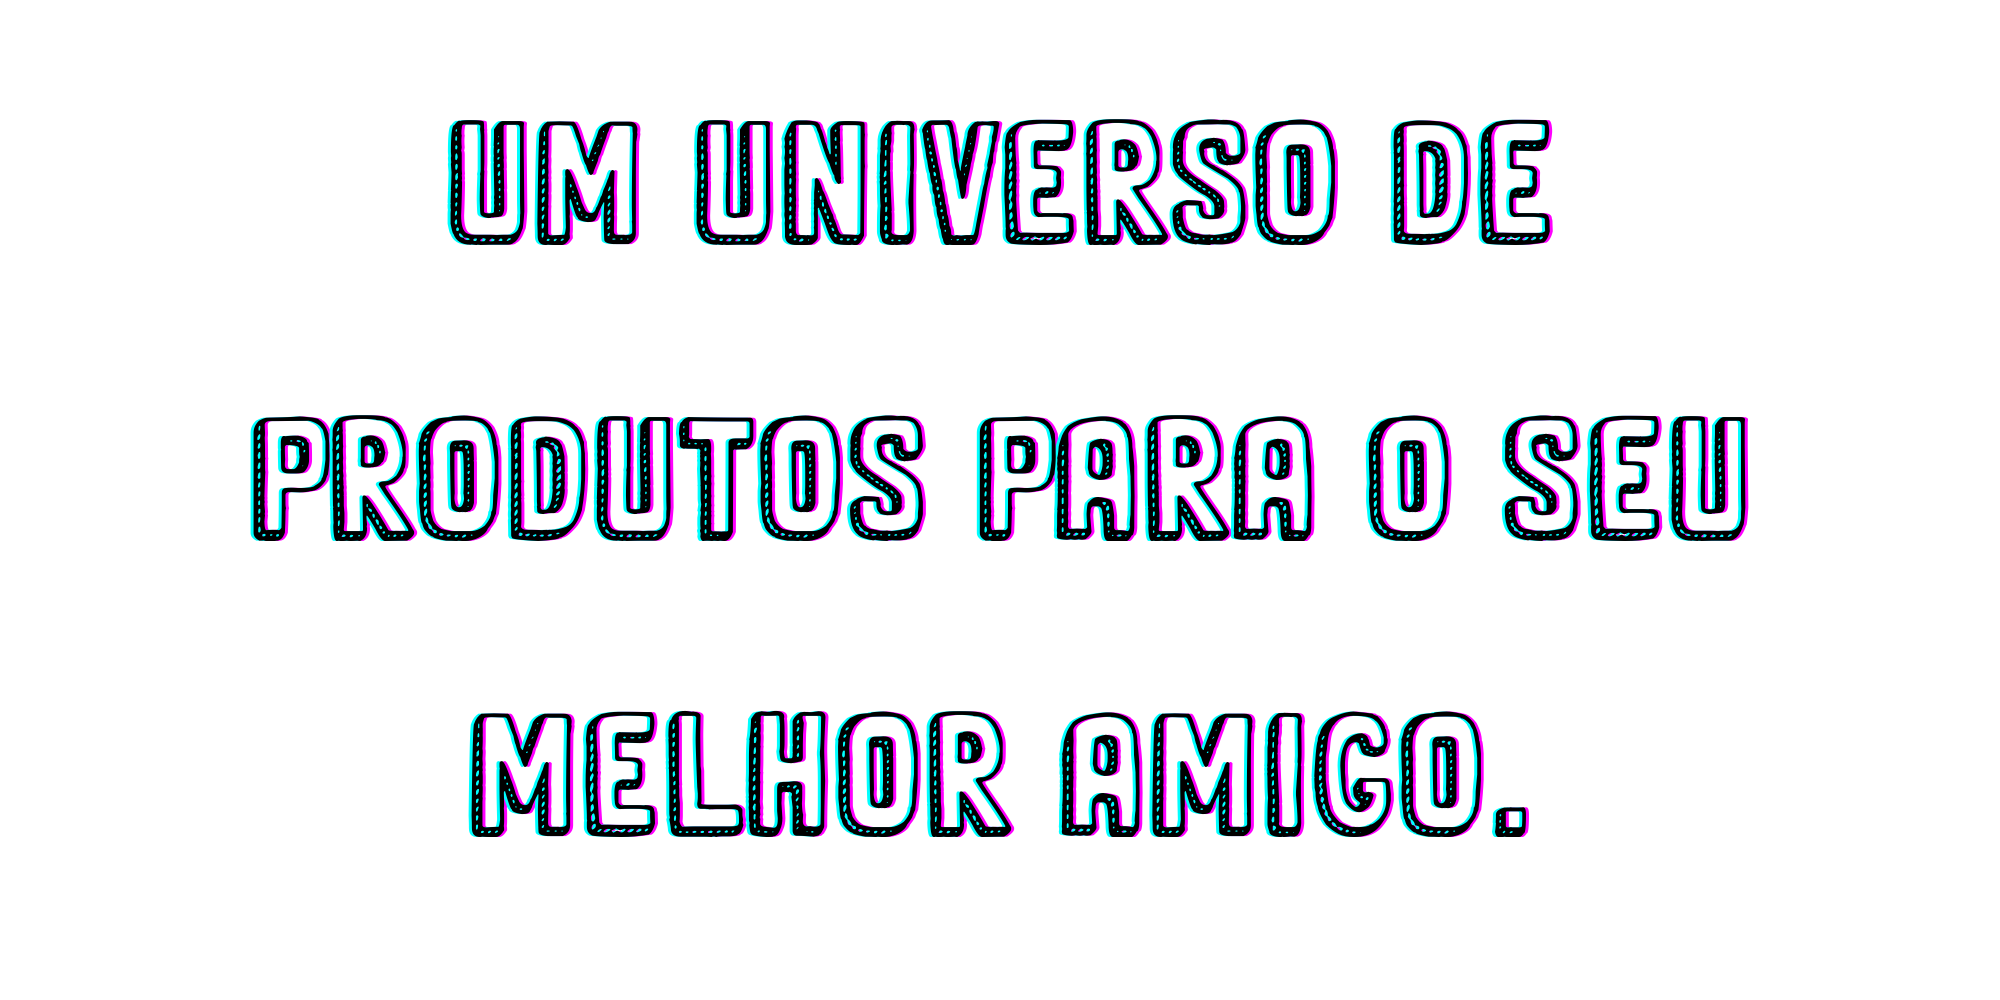
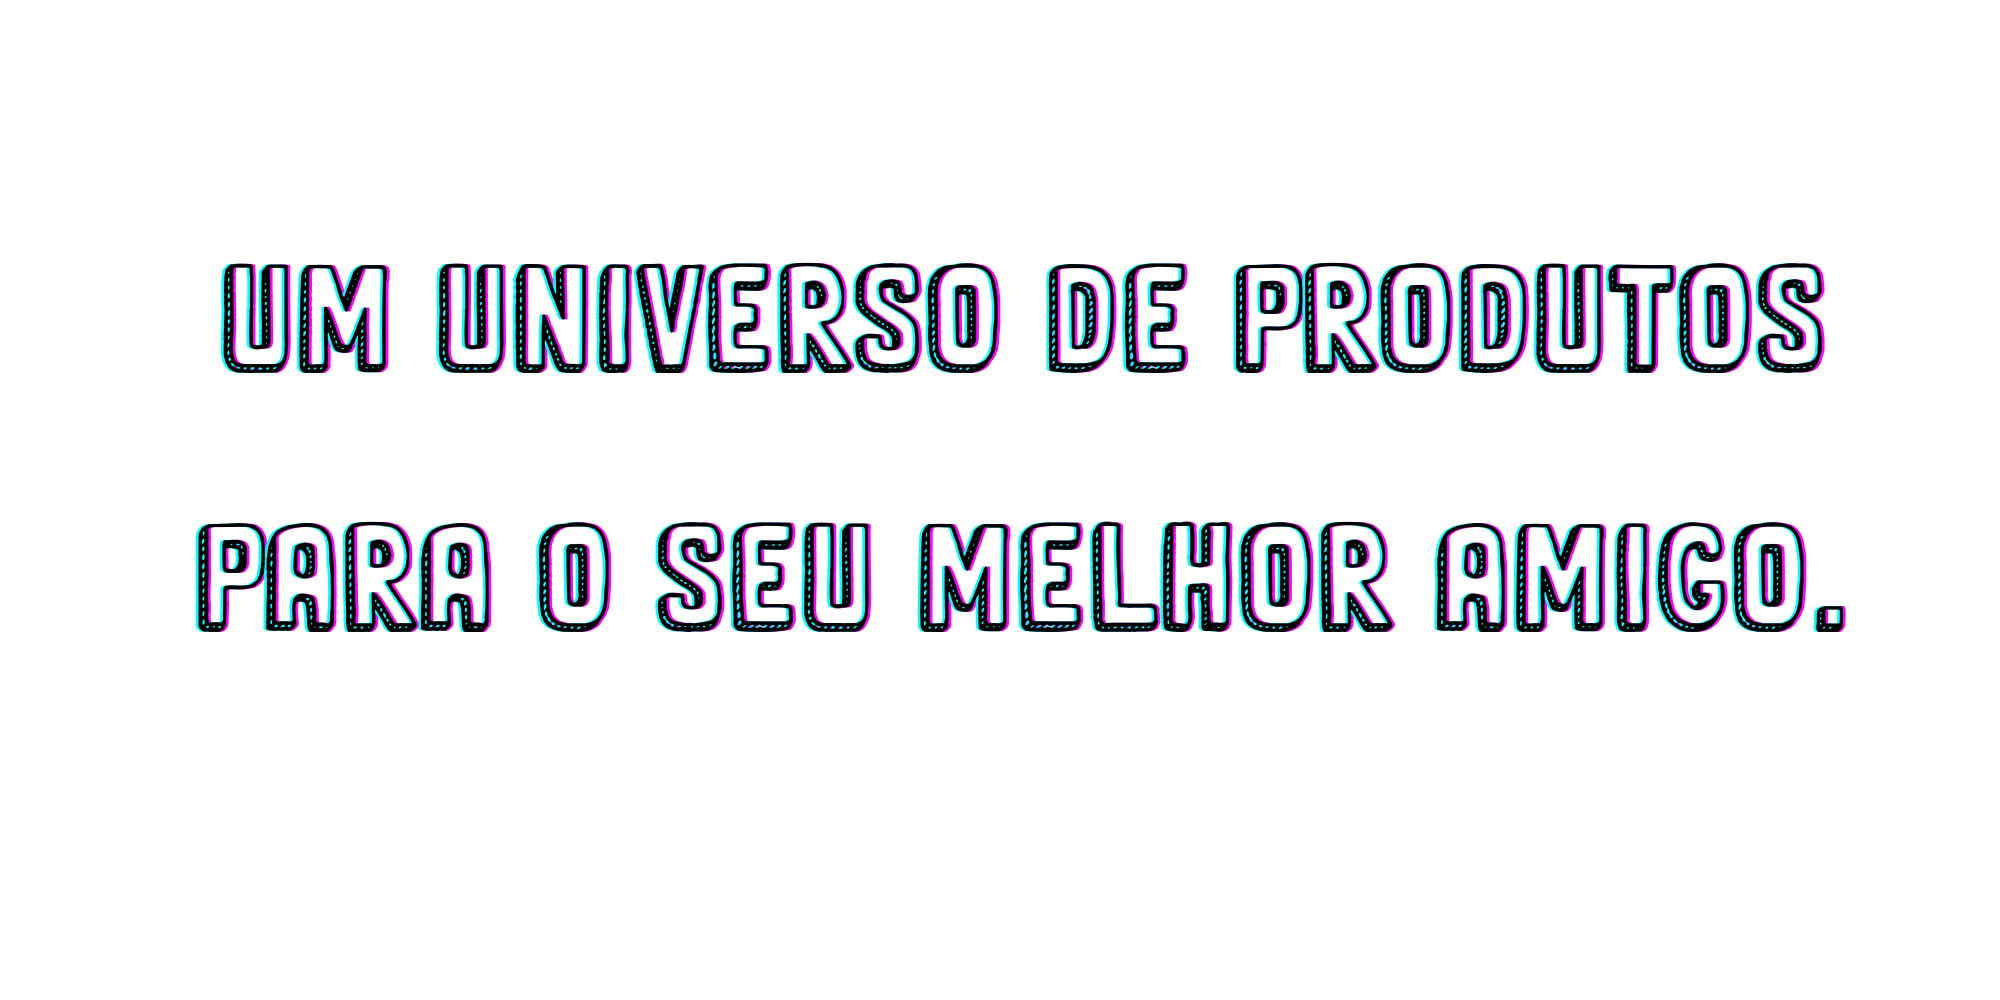
ajustes home

Changed region(s): [[0.093, 0.403, 0.93, 0.651], [0.093, 0.093, 0.93, 0.372], [0.217, 0.713, 0.775, 0.837]]

diff --git a/src/components/pages/Home/Home.js b/src/components/pages/Home/Home.js
@@ -26,7 +26,7 @@ const Home = () => {
                 <img className="Sil" src = {SilCat}/>
                 <br />
                 <img className="Sil2" src = {HomeText}/>
-                <br />
+                
                 <h5 className="destaque">Ajudando pequenas empresas e produtores a dar o suporte que todo tutor de pet precisa nessa incrivel jornada!</h5>
                 <br />
                 <br />

diff --git a/src/components/pages/Home/Home.css b/src/components/pages/Home/Home.css
@@ -181,10 +181,10 @@
 }
 
 .Sil2{
-  max-width: 1000px;
+  max-width: 800px;
   align-items: center;
-  margin-left: 220px;
-  margin-top: 20px;
+  margin-left: 250px;
+  
 }
 
 .animal h4{
